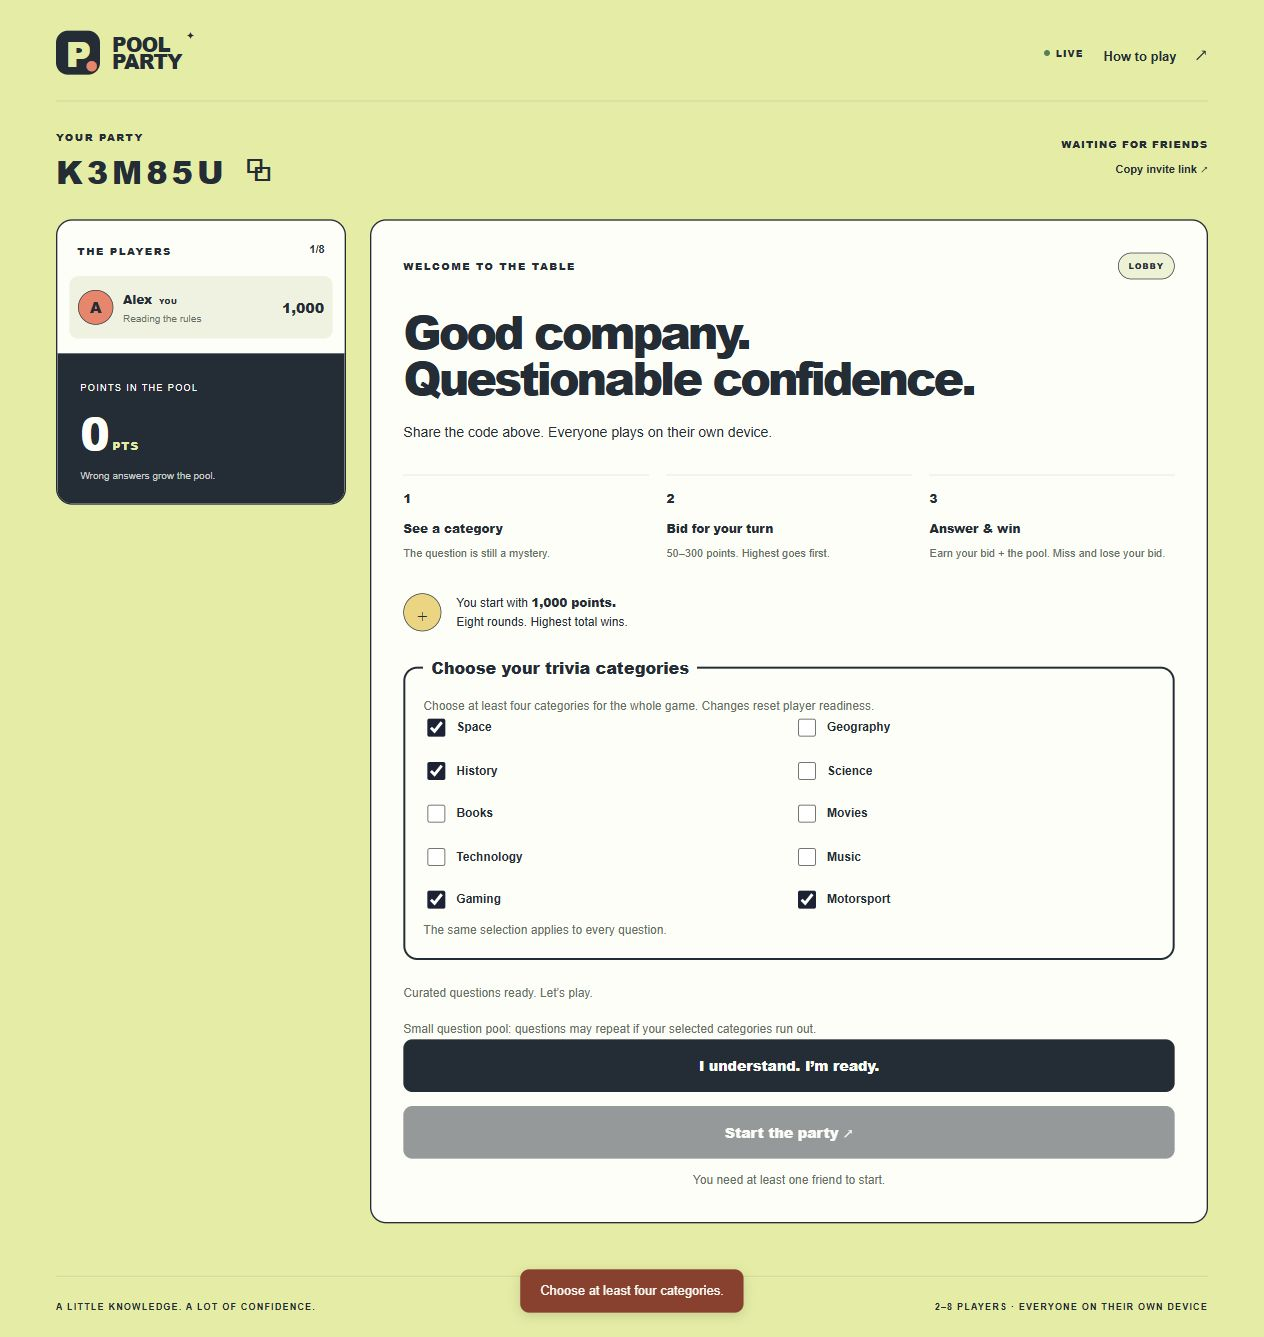
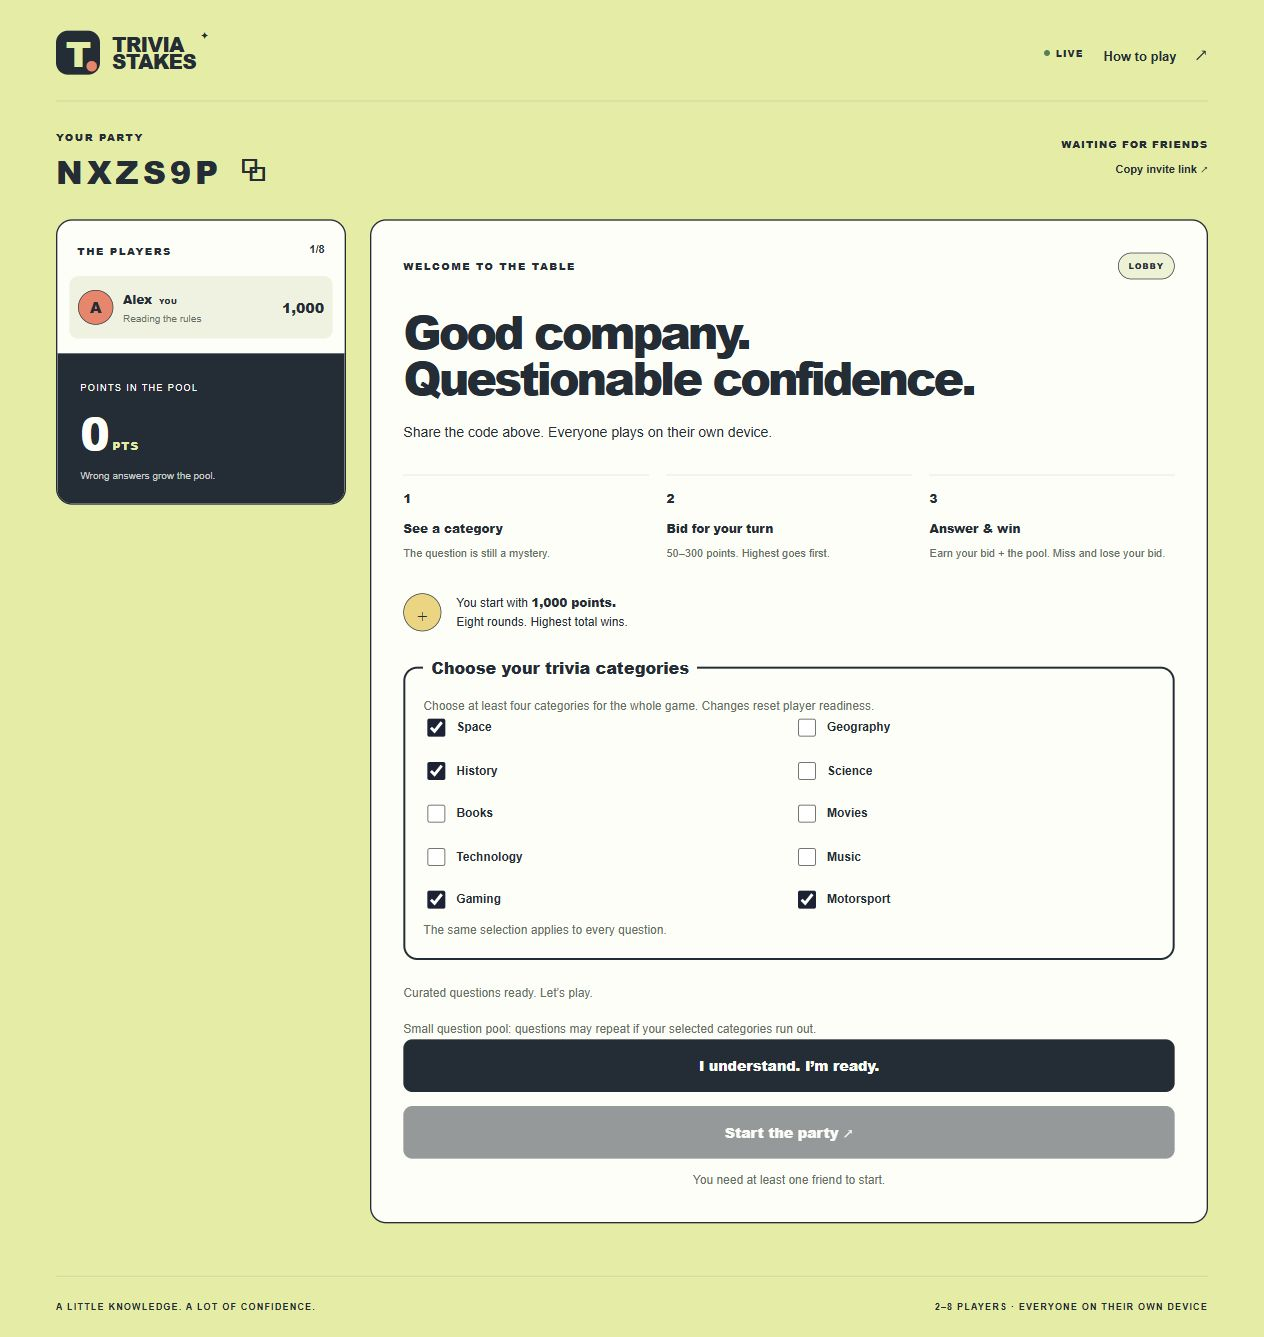
Refresh Trivia Stakes screenshots and question bank notes

Changed region(s): [[0.4011, 0.9506, 0.5862, 0.9813], [0.0617, 0.1227, 0.216, 0.1533], [0.0309, 0.0307, 0.1543, 0.0613]]

diff --git a/docs/question-bank.md b/docs/question-bank.md
@@ -1,8 +1,8 @@
 # Question bank
 
-The updated bank replaces the initial easy prompts with 80 questions curated for medium difficulty. There are eight questions in each of ten categories. Space, Geography, History, Science, and Books provide general knowledge; Movies, Technology, Music, Gaming, and Motorsport provide specialist topics. Both regular and bonus questions draw from this bank, without repeats during one game.
+The updated bank replaces the initial easy prompts with 80 questions curated for medium difficulty. There are eight questions in each of ten categories. Space, Geography, History, Science, and Books provide general knowledge; Movies, Technology, Music, Gaming, and Motorsport provide specialist topics. Both regular and bonus questions draw from the same prepared deck, filtered to the host-selected categories.
 
-Medium is an editorial target rather than a measured difficulty rating. Some topics will feel easier to fans. Tune the bank using first-attempt accuracy and player feedback. Eight players can use up to 72 questions in one game, so the bank still supports the longest possible game without repeats.
+Medium is an editorial target rather than a measured difficulty rating. Some topics will feel easier to fans. Tune the bank using first-attempt accuracy and player feedback. Eight players can use up to 72 questions in one game. With all categories selected, the curated bank covers that without repeats; a smaller selection may repeat after its unique questions are consumed, as explained in the lobby.
 
 ## Multiple-choice format
 
